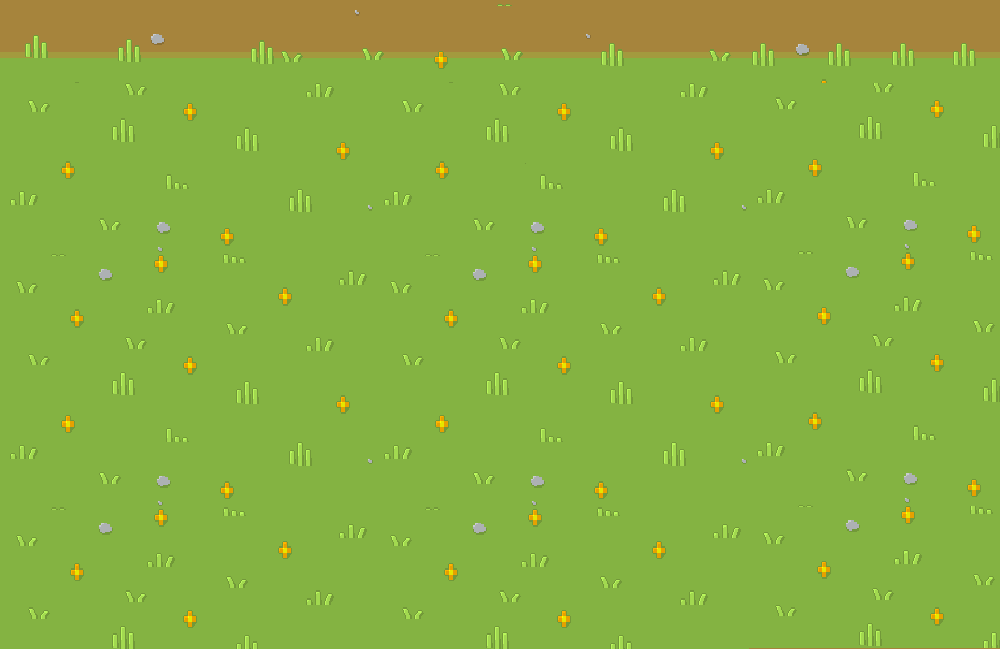
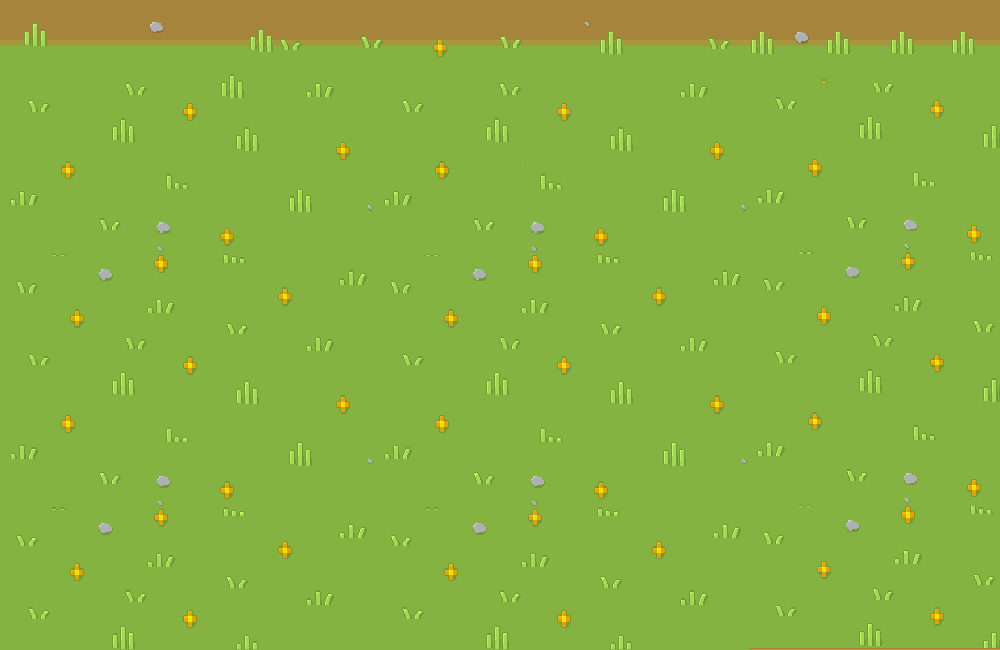
clean up, accessibility

Changed region(s): [[0.0, 0.0308, 1.0, 0.1231], [0.217, 0.1231, 0.248, 0.1538]]

diff --git a/src/components/ComingSoon.vue b/src/components/ComingSoon.vue
@@ -1,19 +1,21 @@
 <template>
   <section class="coming-soon hero bg-image is-large">
     <div class="hero-body">
-      <h1 class="title has-text-centered has-background-green">Coming Soon!</h1>
+      <h1 class="title has-text-centered">Coming Soon!</h1>
       <div class="columns">
         <div class="column is-4 is-offset-4 columns">
-          <div class="column is-5 has-background-green">
+          <div class="column is-5">
             <b-image
               class="image"
               :src="require('@/assets/android.png')"
+              alt="Android Logo Image"
             ></b-image>
           </div>
-          <div class="column is-5 is-offset-2 has-background-green">
+          <div class="column is-5 is-offset-2">
             <b-image
               class="image"
               :src="require('@/assets/apple.png')"
+              alt="Apple Logo Image"
             ></b-image>
           </div>
         </div>
@@ -33,8 +35,6 @@ export default class ComingSoon extends Vue {}
 <style scoped>
 .bg-image {
   background-image: url("../assets/bg-coming-soon.png");
-  background-repeat: no-repeat;
-  background-size: 100% 100%;
-  background-position: center top;
+  background-size: auto 100%;
 }
 </style>

diff --git a/src/components/Gameplay.vue b/src/components/Gameplay.vue
@@ -9,7 +9,11 @@
         >
           <section class="columns is-centered">
             <div class="column">
-              <b-image :src="carouselItem.image" class="my-carousel"></b-image>
+              <b-image
+                :src="carouselItem.image"
+                class="my-carousel"
+                :alt="carouselItem.title"
+              ></b-image>
               <h1 class="title">{{ carouselItem.title }}</h1>
               <p class="content has-background-green">
                 {{ carouselItem.description }}
@@ -63,9 +67,7 @@ export default class Gameplay extends Vue {
 <style scoped lang="scss">
 .bg-image {
   background-image: url("../assets/River.png");
-  background-repeat: no-repeat;
-  background-size: 100% 100%;
-  background-position: center top;
+  background-size: auto 100%;
   background-color: #84b342;
 }
 .content {

diff --git a/src/components/NavBar.vue b/src/components/NavBar.vue
@@ -9,11 +9,11 @@
             src="@/assets/logo-crop.png"
         /></b-navbar-item>
         <b-navbar-item href="https://twitter.com/intrigue_games">
-          <b-icon type="is-white" icon="twitter"></b-icon
+          <b-icon type="is-white" icon="twitter" title="Twitter Icon"></b-icon
         ></b-navbar-item>
         <b-navbar-item
           href="https://www.youtube.com/channel/UCQPXkDppOggoio7FFq_dpcg"
-          ><b-icon type="is-white" icon="youtube"></b-icon
+          ><b-icon type="is-white" icon="youtube" title="youtube Icon"></b-icon
         ></b-navbar-item>
       </b-navbar-item>
     </template>

diff --git a/src/components/Story.vue b/src/components/Story.vue
@@ -1,7 +1,6 @@
 <template>
   <section class="story hero is-medium bg-image">
     <div class="hero-body">
-      <div class="anchor" id="story"></div>
       <h1 class="title has-text-centered">Story</h1>
       <div class="columns is-vcentered">
         <div class="column">
@@ -39,9 +38,7 @@ export default class Story extends Vue {}
 <style scoped lang="scss">
 .bg-image {
   background-image: url("../assets/bg-story.png");
-  background-repeat: no-repeat;
-  background-size: 100% 100%;
-  background-position: top;
+  background-size: auto 100%;
   background-color: #a6843c;
 }
 .image {

diff --git a/src/App.vue b/src/App.vue
@@ -14,7 +14,6 @@
 
 <script lang="ts">
 import Vue from "vue";
-import HelloWorld from "./components/HelloWorld.vue";
 import Component from "vue-class-component";
 import NavBar from "@/components/NavBar.vue";
 import Music from "@/components/Music.vue";
@@ -26,7 +25,6 @@ import Story from "@/components/Story.vue";
 
 @Component({
   components: {
-    HelloWorld,
     NavBar,
     Music,
     Banner,

diff --git a/src/components/Music.vue b/src/components/Music.vue
@@ -33,9 +33,7 @@ export default class Music extends Vue {
 <style scoped>
 .bg-image {
   background-image: url("../assets/dirtWithTransition.png");
-  background-repeat: no-repeat;
-  background-size: 100% 100%;
-  background-position: center top;
+  background-size: auto 100%;
 }
 .title {
   text-align: center;

diff --git a/src/components/Banner.vue b/src/components/Banner.vue
@@ -59,7 +59,7 @@ export default class Banner extends Vue {
 <style scoped lang="scss">
 .bg-image {
   background-image: url("../assets/banner.png");
-  background-size: 100% 100%;
+  background-size: auto 100%;
 }
 </style>
 

diff --git a/public/index.html b/public/index.html
@@ -1,5 +1,5 @@
 <!DOCTYPE html>
-<html lang="">
+<html lang="en">
   <head>
     <!--   Meta Tags   -->
     <meta charset="utf-8" />
